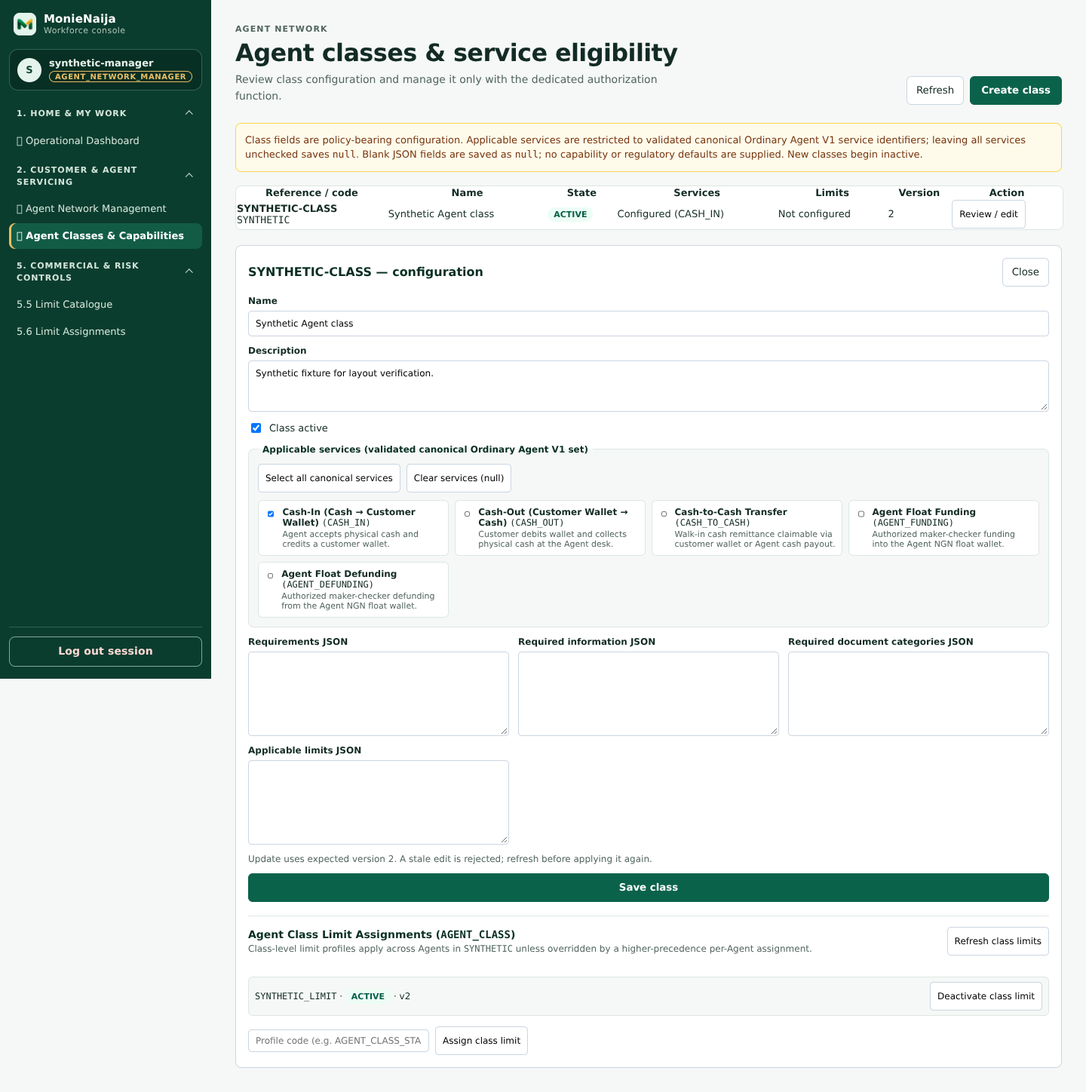
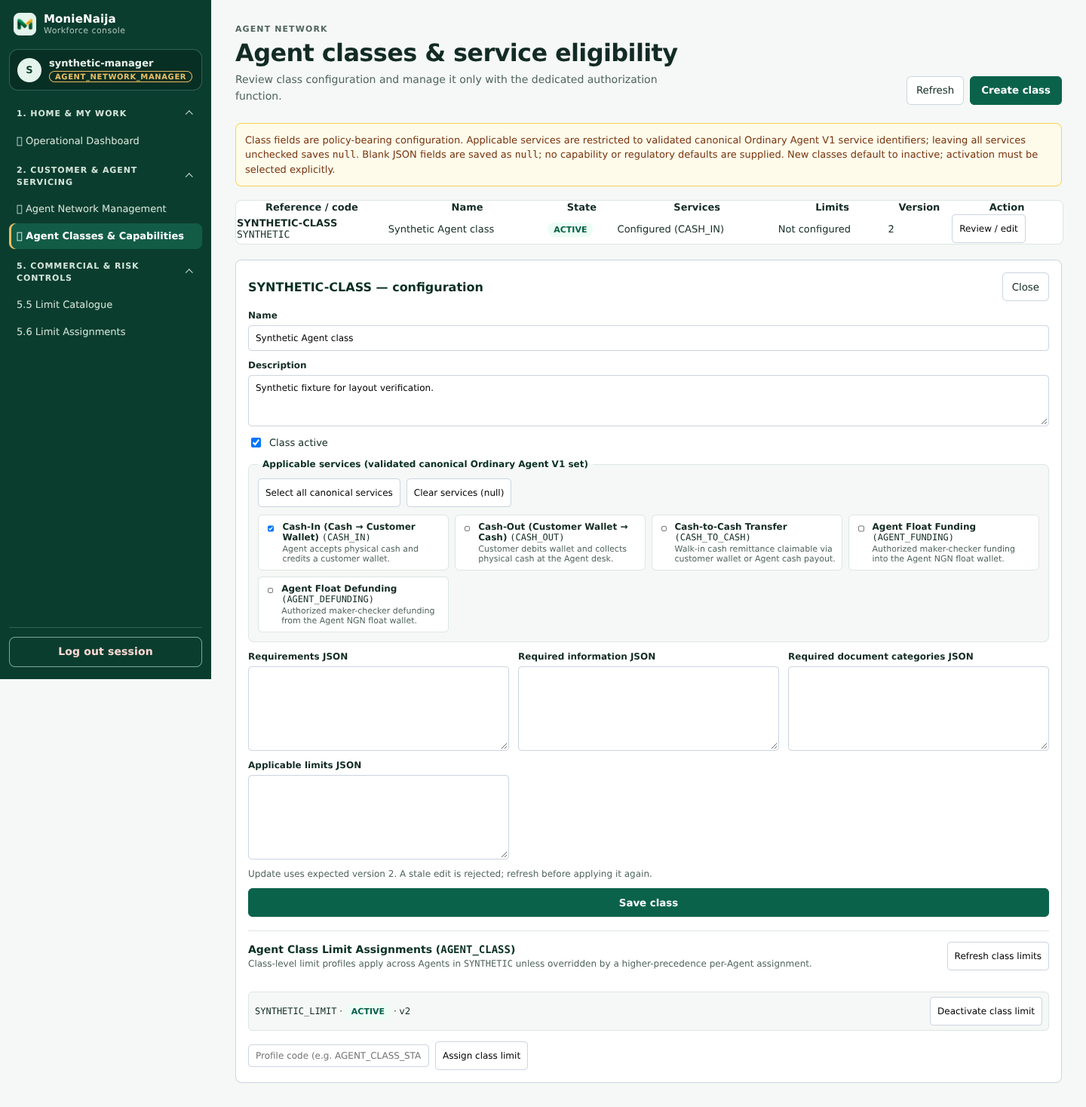
Harden agent class limit workflows

diff --git a/apps/admin-web/src/screens/authenticated/AgentClassesScreen.tsx b/apps/admin-web/src/screens/authenticated/AgentClassesScreen.tsx
@@ -141,7 +141,7 @@ export const AgentClassesScreen: React.FC = () => {
   const canViewLimits = hasFunction('limit.view');
   const canModifyLimits = hasFunction('limit.modify');
 
-  const key = `${principal?.principalId ?? ''}:${canView}:${canManage}:${canViewLimits}:${canModifyLimits}`;
+  const key = JSON.stringify([principal?.principalId, principal?.sessionId, principal?.type, principal?.roles, principal?.scopes, principal?.assuranceLevel, principal?.customerAccess, principal?.readOnlyPrincipal]);
   return <AgentClassesWorkspace key={key} canView={canView} canManage={canManage} canViewLimits={canViewLimits} canModifyLimits={canModifyLimits} />;
 };
 
@@ -167,6 +167,7 @@ const AgentClassesWorkspace: React.FC<{canView: boolean; canManage: boolean; can
   const [classLimitsError, setClassLimitsError] = useState('');
   const [classLimitsMsg, setClassLimitsMsg] = useState('');
   const [classLimits, setClassLimits] = useState<ClassLimitAssignmentRecord[]>([]);
+  const [classLimitsPage, setClassLimitsPage] = useState<{ page: number; total: number; totalPages: number; hasNextPage: boolean } | null>(null);
   const [classLimitProfileCode, setClassLimitProfileCode] = useState('');
 
   const resetClassLimitsState = () => {
@@ -175,6 +176,7 @@ const AgentClassesWorkspace: React.FC<{canView: boolean; canManage: boolean; can
     setClassLimitsLoading(false);
     setClassLimitsLoaded(false);
     setClassLimits([]);
+    setClassLimitsPage(null);
     setClassLimitsError('');
     setClassLimitsMsg('');
     setClassLimitProfileCode('');
@@ -232,19 +234,27 @@ const AgentClassesWorkspace: React.FC<{canView: boolean; canManage: boolean; can
     });
   };
 
-  const loadClassLimitAssignments = async (agentClassId: string) => {
+  const loadClassLimitAssignments = async (agentClassId: string, page = 1) => {
     if (!canViewLimits || classLimitsLoading) return;
     const request = ++limitGeneration.current;
-    setClassLimitsLoading(true); setClassLimitsLoaded(false); setClassLimits([]);
+    setClassLimitsLoading(true); setClassLimitsLoaded(false); setClassLimits([]); setClassLimitsPage(null);
     setClassLimitsError('');
     try {
       const res: any = await ApiClient.get(
-        `/internal/limit-assignments/agent-class/${encodeURIComponent(agentClassId)}`,
+        `/internal/limit-assignments/agent-class/${encodeURIComponent(agentClassId)}?page=${page}&limit=20`,
       );
-      const rows = Array.isArray(res) ? res : res?.data ?? res?.items;
-      if (!Array.isArray(rows) || rows.some((row: any) => !row || typeof row.id !== 'string' || typeof row.limitProfileCode !== 'string' || typeof row.isActive !== 'boolean')) throw new Error('Invalid Agent class limit assignments response.');
+      if (!res || res.page !== page || !Number.isSafeInteger(res.limit) || res.limit < 1 ||
+          !Number.isSafeInteger(res.total) || res.total < 0 || !Number.isSafeInteger(res.totalPages) ||
+          res.totalPages !== Math.ceil(res.total / res.limit) || res.hasNextPage !== (page < res.totalPages) ||
+          !Array.isArray(res.data) || res.data.length > res.limit ||
+          res.data.some((row: any) => !row || typeof row.id !== 'string' || !row.id.trim() ||
+            typeof row.limitProfileCode !== 'string' || !row.limitProfileCode.trim() ||
+            row.subjectType !== 'AGENT_CLASS' || row.subjectId !== agentClassId || typeof row.isActive !== 'boolean')) {
+        throw new Error('Invalid Agent class limit assignments response.');
+      }
       if (request !== limitGeneration.current) return;
-      setClassLimits(rows);
+      setClassLimits(res.data);
+      setClassLimitsPage({ page, total: res.total, totalPages: res.totalPages, hasNextPage: res.hasNextPage });
       setClassLimitsLoaded(true);
     } catch (err: any) {
       if (request === limitGeneration.current) setClassLimitsError(err?.message || 'Failed to load Agent class limit assignments.');
@@ -253,9 +263,14 @@ const AgentClassesWorkspace: React.FC<{canView: boolean; canManage: boolean; can
     }
   };
 
+  const matchesLimitReceipt = (row: any, classId: string, code: string, active: boolean, id?: string, version?: number) =>
+    row && typeof row.id === 'string' && !!row.id.trim() && (!id || row.id === id) &&
+    row.subjectType === 'AGENT_CLASS' && row.subjectId === classId && row.limitProfileCode === code &&
+    row.isActive === active && Number.isSafeInteger(row.version) && row.version > (version ?? 0);
+
   const assignClassLimitProfile = async (event: React.FormEvent) => {
     event.preventDefault();
-    if (!selected || !canModifyLimits || classLimitsBusy) return;
+    if (!selected || !canModifyLimits || classLimitsBusy || saving || classLimitsLoading) return;
     const code = classLimitProfileCode.trim().toUpperCase();
     if (!/^[A-Z0-9_]{3,80}$/.test(code)) {
       setClassLimitsError(
@@ -268,12 +283,13 @@ const AgentClassesWorkspace: React.FC<{canView: boolean; canManage: boolean; can
     setClassLimitsError('');
     setClassLimitsMsg('');
     try {
-      await ApiClient.post('/internal/limit-assignments', {
+      const receipt = await ApiClient.post('/internal/limit-assignments', {
         subjectType: 'AGENT_CLASS',
         subjectId: selected.id,
         limitProfileCode: code,
       });
       if (request !== mutationGeneration.current) return;
+      if (!matchesLimitReceipt(receipt, selected.id, code, true)) throw new Error('Unconfirmed class limit assignment receipt.');
       setClassLimitProfileCode('');
       setClassLimitsMsg(
         canViewLimits
@@ -284,33 +300,34 @@ const AgentClassesWorkspace: React.FC<{canView: boolean; canManage: boolean; can
         await loadClassLimitAssignments(selected.id);
       }
     } catch (err: any) {
-      if (request === mutationGeneration.current) setClassLimitsError(err?.message || 'Failed to assign limit profile to Agent class.');
+      if (request === mutationGeneration.current) { setClassLimitsLoaded(false); setClassLimits([]); setClassLimitsPage(null); setClassLimitsError('The assignment outcome could not be confirmed. Review the class limits before retrying.'); }
     } finally {
       if (request === mutationGeneration.current) setClassLimitsBusy(false);
     }
   };
 
   const toggleClassLimitAssignment = async (assignment: ClassLimitAssignmentRecord) => {
-    if (!selected || !canModifyLimits || classLimitsBusy || !Number.isSafeInteger(assignment.version) || (assignment.version ?? 0) < 1) return;
+    if (!selected || !canModifyLimits || classLimitsBusy || saving || classLimitsLoading || !Number.isSafeInteger(assignment.version) || (assignment.version ?? 0) < 1) return;
     const request = ++mutationGeneration.current;
     setClassLimitsBusy(true);
     setClassLimitsError('');
     setClassLimitsMsg('');
     try {
-      await ApiClient.patch(`/internal/limit-assignments/${encodeURIComponent(assignment.id)}`, {
+      const receipt = await ApiClient.patch(`/internal/limit-assignments/${encodeURIComponent(assignment.id)}`, {
         subjectType: 'AGENT_CLASS',
         isActive: !assignment.isActive,
         version: assignment.version,
       });
       if (request !== mutationGeneration.current) return;
+      if (!matchesLimitReceipt(receipt, selected.id, assignment.limitProfileCode, !assignment.isActive, assignment.id, assignment.version)) throw new Error('Unconfirmed class limit update receipt.');
       setClassLimitsMsg(
         `Class limit ${assignment.limitProfileCode} ${assignment.isActive ? 'deactivated' : 'activated'}.`,
       );
       if (canViewLimits) {
-        await loadClassLimitAssignments(selected.id);
+        await loadClassLimitAssignments(selected.id, classLimitsPage?.page ?? 1);
       }
     } catch (err: any) {
-      if (request === mutationGeneration.current) setClassLimitsError(err?.message || 'Failed to update Agent class limit assignment.');
+      if (request === mutationGeneration.current) { setClassLimitsLoaded(false); setClassLimits([]); setClassLimitsPage(null); setClassLimitsError('The update outcome could not be confirmed. Reload class limits and inspect the assignment before retrying.'); }
     } finally {
       if (request === mutationGeneration.current) setClassLimitsBusy(false);
     }
@@ -320,7 +337,7 @@ const AgentClassesWorkspace: React.FC<{canView: boolean; canManage: boolean; can
 
   const save = async (event: React.FormEvent) => {
     event.preventDefault();
-    if (!canManage || saving || loading || !!listError || selectedStale) return;
+    if (!canManage || saving || classLimitsBusy || classLimitsLoading || loading || !!listError || selectedStale) return;
     setError('');
     setMessage('');
 
@@ -364,7 +381,7 @@ const AgentClassesWorkspace: React.FC<{canView: boolean; canManage: boolean; can
         if (form.description.trim()) body.description = form.description.trim();
         const created = await ApiClient.post<AgentClassRecord>('/internal/agents/classes', body);
         if (request !== mutationGeneration.current) return;
-        if (!created || typeof created.id !== 'string' || typeof created.reference !== 'string' || typeof created.name !== 'string' || typeof created.version !== 'number') throw new Error('Class creation response is incomplete.');
+        if (!created || typeof created.id !== 'string' || !created.id.trim() || typeof created.reference !== 'string' || !created.reference.trim() || typeof created.code !== 'string' || !created.code.trim() || created.name !== form.name.trim() || created.isActive !== form.isActive || !Number.isSafeInteger(created.version) || created.version < 1 || (form.reference.trim() && created.reference !== form.reference.trim()) || (form.code.trim() && created.code !== form.code.trim())) throw new Error('Class creation response is incomplete.');
         setMessage(
           `Agent class ${created.reference} created. New classes start inactive unless explicitly activated.`,
         );
@@ -384,7 +401,7 @@ const AgentClassesWorkspace: React.FC<{canView: boolean; canManage: boolean; can
           },
         );
         if (request !== mutationGeneration.current) return;
-        if (!updated || typeof updated.id !== 'string' || updated.id !== selected.id || typeof updated.reference !== 'string' || typeof updated.name !== 'string' || typeof updated.version !== 'number') throw new Error('Class update response is incomplete.');
+        if (!updated || updated.id !== selected.id || updated.reference !== selected.reference || updated.code !== selected.code || updated.name !== form.name.trim() || updated.isActive !== form.isActive || !Number.isSafeInteger(updated.version) || updated.version <= selected.version) throw new Error('Class update response is incomplete.');
         setMessage(`Agent class ${updated.reference} saved at version ${updated.version}.`);
         setSelected(updated);
         setForm(toForm(updated));
@@ -421,7 +438,7 @@ const AgentClassesWorkspace: React.FC<{canView: boolean; canManage: boolean; can
       } />
 
       <div style={styles.notice} role="note">
-        Class fields are policy-bearing configuration. Applicable services are restricted to validated canonical Ordinary Agent V1 service identifiers; leaving all services unchecked saves <code>null</code>. Blank JSON fields are saved as <code>null</code>; no capability or regulatory defaults are supplied. New classes begin inactive.
+        Class fields are policy-bearing configuration. Applicable services are restricted to validated canonical Ordinary Agent V1 service identifiers; leaving all services unchecked saves <code>null</code>. Blank JSON fields are saved as <code>null</code>; no capability or regulatory defaults are supplied. New classes default to inactive; activation must be selected explicitly.
       </div>
       {!canManage && (
         <div
@@ -678,8 +695,8 @@ const AgentClassesWorkspace: React.FC<{canView: boolean; canManage: boolean; can
                   before applying it again.
                 </p>
               )}
-              <button type="submit" style={styles.primaryButton} disabled={saving || selectedStale}>
-                {saving ? 'Saving…' : creating ? 'Create inactive class' : 'Save class'}
+              <button type="submit" style={styles.primaryButton} disabled={saving || classLimitsBusy || classLimitsLoading || selectedStale}>
+                {saving ? 'Saving…' : creating ? (form.isActive ? 'Create active class' : 'Create inactive class') : 'Save class'}
               </button>
             </form>
           ) : (
@@ -726,8 +743,8 @@ const AgentClassesWorkspace: React.FC<{canView: boolean; canManage: boolean; can
                   <button
                     type="button"
                     style={styles.smallButton}
-                    disabled={classLimitsLoading}
-                    onClick={() => void loadClassLimitAssignments(selected.id)}
+                    disabled={classLimitsLoading || classLimitsBusy || saving}
+                    onClick={() => void loadClassLimitAssignments(selected.id, classLimitsPage?.page ?? 1)}
                   >
                     {classLimitsLoading
                       ? 'Loading…'
@@ -768,8 +785,9 @@ const AgentClassesWorkspace: React.FC<{canView: boolean; canManage: boolean; can
                 <div style={{ marginTop: 8 }}>
                   {classLimits.length === 0 ? (
                     <div style={styles.versionNote}>
-                      No <code>AGENT_CLASS</code> limit assignments configured for{' '}
-                      <code>{selected.reference}</code>.
+                      {classLimitsPage?.total === 0
+                        ? <>No <code>AGENT_CLASS</code> limit assignments configured for <code>{selected.reference}</code>.</>
+                        : 'No assignments on this page. Return to an earlier page to review current results.'}
                     </div>
                   ) : (
                     <ul style={styles.limitList}>
@@ -786,7 +804,7 @@ const AgentClassesWorkspace: React.FC<{canView: boolean; canManage: boolean; can
                             <button
                               type="button"
                               style={styles.smallButton}
-                              disabled={classLimitsBusy || !Number.isSafeInteger(assignment.version) || (assignment.version ?? 0) < 1}
+                              disabled={classLimitsBusy || classLimitsLoading || saving || !Number.isSafeInteger(assignment.version) || (assignment.version ?? 0) < 1}
                               title={!Number.isSafeInteger(assignment.version) || (assignment.version ?? 0) < 1 ? 'Version unavailable; refresh before changing this assignment.' : undefined}
                               onClick={() => void toggleClassLimitAssignment(assignment)}
                             >
@@ -798,6 +816,13 @@ const AgentClassesWorkspace: React.FC<{canView: boolean; canManage: boolean; can
                         </li>
                       ))}
                     </ul>
+                  )}
+                  {classLimitsPage && (classLimitsPage.totalPages > 1 || classLimitsPage.page > 1) && (
+                    <nav aria-label="Class limit assignment pages" style={styles.inlineLimitForm}>
+                      <button type="button" style={styles.smallButton} disabled={classLimitsPage.page <= 1 || classLimitsBusy || saving} onClick={() => void loadClassLimitAssignments(selected.id, classLimitsPage.page - 1)}>Previous</button>
+                      <span>Page {classLimitsPage.page} of {Math.max(classLimitsPage.totalPages, 1)} · {classLimitsPage.total} assignments</span>
+                      <button type="button" style={styles.smallButton} disabled={!classLimitsPage.hasNextPage || classLimitsBusy || saving} onClick={() => void loadClassLimitAssignments(selected.id, classLimitsPage.page + 1)}>Next</button>
+                    </nav>
                   )}
                 </div>
               )}
@@ -814,12 +839,12 @@ const AgentClassesWorkspace: React.FC<{canView: boolean; canManage: boolean; can
                     value={classLimitProfileCode}
                     onChange={(event) => setClassLimitProfileCode(event.target.value)}
                     style={styles.inlineInput}
-                    disabled={classLimitsBusy}
+                    disabled={classLimitsBusy || classLimitsLoading || saving}
                   />
                   <button
                     type="submit"
                     style={styles.smallButton}
-                    disabled={classLimitsBusy}
+                    disabled={classLimitsBusy || classLimitsLoading || saving}
                   >
                     Assign class limit
                   </button>

diff --git a/apps/admin-web/__tests__/m2-agent-classes.test.tsx b/apps/admin-web/__tests__/m2-agent-classes.test.tsx
@@ -5,6 +5,8 @@ import {ApiClient} from '../src/services/api-client';
 import {useAuthStore} from '../src/store/auth-store';
 jest.mock('../src/services/api-client',()=>({ApiClient:{get:jest.fn(),post:jest.fn(),patch:jest.fn()}}));
 const cls=(id:string)=>({id,reference:`REF-${id}`,code:`CODE-${id}`,name:`Class ${id}`,description:null,isActive:true,requirements:null,requiredInformation:null,requiredDocumentCategories:null,applicableServices:null,applicableLimits:null,version:2,createdAt:'2026-01-01',updatedAt:'2026-01-01'});
+const page=(data:any[], page=1, total=data.length, limit=20)=>({data,page,total,limit,totalPages:Math.ceil(total/limit),hasNextPage:page<Math.ceil(total/limit)});
+const limit=(id:string,subjectId='a',version:any=1,isActive=true)=>({id,subjectType:'AGENT_CLASS',subjectId,limitProfileCode:'SYNTHETIC_PROFILE',isActive,version});
 function deferred(){let resolve!:(v:any)=>void;const promise=new Promise<any>(r=>resolve=r);return {promise,resolve};}
 beforeEach(()=>{jest.resetAllMocks();useAuthStore.setState({principal:{type:'OPERATOR',principalId:'synthetic',sessionId:'synthetic',audience:'workforce-admin',roles:['AGENT_NETWORK_MANAGER'],scopes:['agent.view','agent.manage_classes','limit.view','limit.modify'],customerAccess:'NONE',assuranceLevel:'MFA'}})});
 test('failed catalogue refresh is unavailable, not empty, and retains the draft for retry',async()=>{
@@ -14,12 +16,12 @@ test('failed catalogue refresh is unavailable, not empty, and retains the draft 
  fireEvent.click(screen.getByRole('button',{name:'Refresh'}));expect(await screen.findByLabelText('Class name')).toHaveProperty('value','Draft class');
 });
 test('late limit results never appear under the newly selected class',async()=>{
- const old=deferred();(ApiClient.get as jest.Mock).mockImplementation((url:string)=>url==='/internal/agents/classes'?Promise.resolve([cls('a'),cls('b')]):url.endsWith('/a')?old.promise:Promise.resolve([]));
+ const old=deferred();(ApiClient.get as jest.Mock).mockImplementation((url:string)=>url==='/internal/agents/classes'?Promise.resolve([cls('a'),cls('b')]):url.includes('/agent-class/a?')?old.promise:Promise.resolve(page([])));
  render(<AgentClassesScreen/>);await screen.findByText('REF-a');fireEvent.click(screen.getAllByRole('button',{name:'Review / edit'})[0]);fireEvent.click(screen.getByRole('button',{name:'Load class limit assignments'}));fireEvent.click(screen.getAllByRole('button',{name:'Review / edit'})[1]);
- await act(async()=>{old.resolve([{id:'old-limit',limitProfileCode:'OLD_PROFILE',isActive:true,version:1}]);await old.promise;});expect(screen.queryByText('OLD_PROFILE')).toBeNull();expect(screen.getByRole('button',{name:'Load class limit assignments'})).toBeTruthy();
+ await act(async()=>{old.resolve(page([{...limit('old-limit'),limitProfileCode:'OLD_PROFILE'}]));await old.promise;});expect(screen.queryByText('OLD_PROFILE')).toBeNull();expect(screen.getByRole('button',{name:'Load class limit assignments'})).toBeTruthy();
 });
 test('missing optimistic limit version is not invented for an action',async()=>{
- (ApiClient.get as jest.Mock).mockImplementation((url:string)=>url==='/internal/agents/classes'?Promise.resolve([cls('a')]):Promise.resolve([{id:'limit',limitProfileCode:'SYNTHETIC_PROFILE',isActive:true}]));
+ (ApiClient.get as jest.Mock).mockImplementation((url:string)=>url==='/internal/agents/classes'?Promise.resolve([cls('a')]):Promise.resolve(page([{...limit('limit'),version:undefined}])));
  render(<AgentClassesScreen/>);fireEvent.click(await screen.findByRole('button',{name:'Review / edit'}));fireEvent.click(screen.getByRole('button',{name:'Load class limit assignments'}));expect(await screen.findByText('SYNTHETIC_PROFILE')).toBeTruthy();
  expect(within(screen.getByLabelText('Agent class limit assignments')).getByText(/version unavailable/)).toBeTruthy();expect((screen.getByRole('button',{name:'Deactivate class limit'}) as HTMLButtonElement).disabled).toBe(true);expect(ApiClient.patch).not.toHaveBeenCalled();
 });
@@ -27,4 +29,54 @@ test('a changed catalogue version preserves the draft but blocks saving it as cu
  (ApiClient.get as jest.Mock).mockResolvedValueOnce([cls('a')]).mockResolvedValueOnce([{...cls('a'),version:3}]);
  render(<AgentClassesScreen/>);fireEvent.click(await screen.findByRole('button',{name:'Review / edit'}));fireEvent.change(screen.getByLabelText('Class name'),{target:{value:'Draft class'}});fireEvent.click(screen.getByRole('button',{name:'Refresh'}));
  expect(await screen.findByText(/catalogue has changed/)).toBeTruthy();expect(screen.getByLabelText('Class name')).toHaveProperty('value','Draft class');expect((screen.getByRole('button',{name:'Save class'}) as HTMLButtonElement).disabled).toBe(true);expect(ApiClient.patch).not.toHaveBeenCalled();
+});
+
+test('class limits paginate using backend metadata and never display another class assignment',async()=>{
+ (ApiClient.get as jest.Mock).mockImplementation((url:string)=>url==='/internal/agents/classes'?Promise.resolve([cls('a')]):Promise.resolve(url.includes('page=2')?page([{...limit('second'),limitProfileCode:'SECOND_PROFILE'}],2,21):page([limit('first')],1,21)));
+ render(<AgentClassesScreen/>);fireEvent.click(await screen.findByRole('button',{name:'Review / edit'}));fireEvent.click(screen.getByRole('button',{name:'Load class limit assignments'}));
+ expect(await screen.findByText('Page 1 of 2 · 21 assignments')).toBeTruthy();fireEvent.click(screen.getByRole('button',{name:'Next'}));expect(await screen.findByText('SECOND_PROFILE')).toBeTruthy();expect(screen.queryByText('SYNTHETIC_PROFILE')).toBeNull();
+ expect(ApiClient.get).toHaveBeenCalledWith('/internal/limit-assignments/agent-class/a?page=2&limit=20');fireEvent.click(screen.getByRole('button',{name:'Previous'}));expect(await screen.findByText('SYNTHETIC_PROFILE')).toBeTruthy();
+});
+test('rejects class limit pages containing another class and does not offer row actions',async()=>{
+ (ApiClient.get as jest.Mock).mockImplementation((url:string)=>url==='/internal/agents/classes'?Promise.resolve([cls('a')]):Promise.resolve(page([limit('foreign','b')])));
+ render(<AgentClassesScreen/>);fireEvent.click(await screen.findByRole('button',{name:'Review / edit'}));fireEvent.click(screen.getByRole('button',{name:'Load class limit assignments'}));expect(await screen.findByText(/Invalid Agent class limit assignments response/)).toBeTruthy();expect(screen.queryByRole('button',{name:'Deactivate class limit'})).toBeNull();
+});
+test('rejects an unrelated class limit create receipt and retains the profile code',async()=>{
+ (ApiClient.get as jest.Mock).mockResolvedValue([cls('a')]);(ApiClient.post as jest.Mock).mockResolvedValue({...limit('new','b'),limitProfileCode:'NEW_PROFILE'});
+ render(<AgentClassesScreen/>);fireEvent.click(await screen.findByRole('button',{name:'Review / edit'}));fireEvent.change(screen.getByLabelText('Class limit profile code'),{target:{value:'new_profile'}});fireEvent.click(screen.getByRole('button',{name:'Assign class limit'}));
+ expect(await screen.findByText(/assignment outcome could not be confirmed/)).toBeTruthy();expect(screen.queryByText(/Assigned limit profile NEW_PROFILE/)).toBeNull();expect(screen.getByLabelText('Class limit profile code')).toHaveProperty('value','new_profile');
+});
+test('confirms a matching class limit create receipt even when refresh fails',async()=>{
+ (ApiClient.get as jest.Mock).mockImplementation((url:string)=>url==='/internal/agents/classes'?Promise.resolve([cls('a')]):Promise.reject(new Error('Limits unavailable')));(ApiClient.post as jest.Mock).mockResolvedValue({...limit('new'),limitProfileCode:'NEW_PROFILE'});
+ render(<AgentClassesScreen/>);fireEvent.click(await screen.findByRole('button',{name:'Review / edit'}));fireEvent.change(screen.getByLabelText('Class limit profile code'),{target:{value:'NEW_PROFILE'}});fireEvent.click(screen.getByRole('button',{name:'Assign class limit'}));
+ expect(await screen.findByText(/Assigned limit profile NEW_PROFILE/)).toBeTruthy();expect(await screen.findByText('Limits unavailable')).toBeTruthy();expect(screen.getByLabelText('Class limit profile code')).toHaveProperty('value','');
+});
+test('rejects an unrelated toggle receipt, hides stale row and requires a reload',async()=>{
+ (ApiClient.get as jest.Mock).mockImplementation((url:string)=>url==='/internal/agents/classes'?Promise.resolve([cls('a')]):Promise.resolve(page([limit('first')])));(ApiClient.patch as jest.Mock).mockResolvedValue(limit('other','a',2,false));
+ render(<AgentClassesScreen/>);fireEvent.click(await screen.findByRole('button',{name:'Review / edit'}));fireEvent.click(screen.getByRole('button',{name:'Load class limit assignments'}));fireEvent.click(await screen.findByRole('button',{name:'Deactivate class limit'}));
+ expect(await screen.findByText(/update outcome could not be confirmed/)).toBeTruthy();expect(screen.queryByText(/SYNTHETIC_PROFILE deactivated/)).toBeNull();expect(screen.queryByRole('button',{name:'Deactivate class limit'})).toBeNull();
+});
+test('confirms a matching toggle receipt and reloads its selected page',async()=>{
+ (ApiClient.get as jest.Mock).mockImplementation((url:string)=>url==='/internal/agents/classes'?Promise.resolve([cls('a')]):Promise.resolve(url.includes('page=2')?page([limit('second')],2,21):page([limit('first')],1,21)));(ApiClient.patch as jest.Mock).mockResolvedValue(limit('second','a',2,false));
+ render(<AgentClassesScreen/>);fireEvent.click(await screen.findByRole('button',{name:'Review / edit'}));fireEvent.click(screen.getByRole('button',{name:'Load class limit assignments'}));fireEvent.click(await screen.findByRole('button',{name:'Next'}));fireEvent.click(await screen.findByRole('button',{name:'Deactivate class limit'}));
+ expect(await screen.findByText(/Class limit SYNTHETIC_PROFILE deactivated/)).toBeTruthy();expect((ApiClient.get as jest.Mock).mock.calls.filter(([url])=>url.includes('page=2'))).toHaveLength(2);
+});
+test('blocks concurrent class save while a class limit write is pending',async()=>{
+ const pending=deferred();(ApiClient.get as jest.Mock).mockResolvedValue([cls('a')]);(ApiClient.post as jest.Mock).mockReturnValue(pending.promise);
+ render(<AgentClassesScreen/>);fireEvent.click(await screen.findByRole('button',{name:'Review / edit'}));fireEvent.change(screen.getByLabelText('Class limit profile code'),{target:{value:'NEW_PROFILE'}});fireEvent.click(screen.getByRole('button',{name:'Assign class limit'}));expect((screen.getByRole('button',{name:'Save class'}) as HTMLButtonElement).disabled).toBe(true);expect(ApiClient.patch).not.toHaveBeenCalled();
+ await act(async()=>{pending.resolve({...limit('new'),limitProfileCode:'NEW_PROFILE'});await pending.promise;});
+});
+test('a session change clears class drafts and ignores a late class limit write',async()=>{
+ const pending=deferred();(ApiClient.get as jest.Mock).mockImplementation((url:string)=>url==='/internal/agents/classes'?Promise.resolve([cls('a')]):Promise.resolve(page([])));(ApiClient.post as jest.Mock).mockReturnValue(pending.promise);
+ render(<AgentClassesScreen/>);fireEvent.click(await screen.findByRole('button',{name:'Review / edit'}));fireEvent.change(screen.getByLabelText('Class limit profile code'),{target:{value:'NEW_PROFILE'}});fireEvent.click(screen.getByRole('button',{name:'Assign class limit'}));
+ act(()=>useAuthStore.setState(state=>({principal:state.principal?{...state.principal,sessionId:'another-session'}:null})));await act(async()=>{pending.resolve({...limit('new'),limitProfileCode:'NEW_PROFILE'});await pending.promise;});
+ expect(screen.queryByText(/Assigned limit profile NEW_PROFILE/)).toBeNull();expect(screen.queryByLabelText('Class limit profile code')).toBeNull();
+});
+test('read-only governance cannot create or modify classes and class limits',async()=>{
+ act(()=>useAuthStore.setState(state=>({principal:state.principal?{...state.principal,scopes:['agent.view','limit.view']}:null})));(ApiClient.get as jest.Mock).mockImplementation((url:string)=>url==='/internal/agents/classes'?Promise.resolve([cls('a')]):Promise.resolve(page([limit('first')])));
+ render(<AgentClassesScreen/>);fireEvent.click(await screen.findByRole('button',{name:'Review'}));fireEvent.click(screen.getByRole('button',{name:'Load class limit assignments'}));expect(await screen.findByText('SYNTHETIC_PROFILE')).toBeTruthy();expect(screen.queryByRole('button',{name:'Create class'})).toBeNull();expect(screen.queryByRole('button',{name:'Deactivate class limit'})).toBeNull();expect(screen.queryByRole('button',{name:'Assign class limit'})).toBeNull();expect(ApiClient.post).not.toHaveBeenCalled();expect(ApiClient.patch).not.toHaveBeenCalled();
+});
+test('an unrelated class update receipt cannot confirm a save',async()=>{
+ (ApiClient.get as jest.Mock).mockResolvedValue([cls('a')]);(ApiClient.patch as jest.Mock).mockResolvedValue({...cls('b'),name:'Draft class',version:3});
+ render(<AgentClassesScreen/>);fireEvent.click(await screen.findByRole('button',{name:'Review / edit'}));fireEvent.change(screen.getByLabelText('Class name'),{target:{value:'Draft class'}});fireEvent.click(screen.getByRole('button',{name:'Save class'}));expect(await screen.findByText(/Class update response is incomplete/)).toBeTruthy();expect(screen.queryByText(/saved at version/)).toBeNull();expect(screen.getByLabelText('Class name')).toHaveProperty('value','Draft class');
 });

diff --git a/apps/admin-web/__tests__/ordinary-agent-v1-mission15b.test.tsx b/apps/admin-web/__tests__/ordinary-agent-v1-mission15b.test.tsx
@@ -435,8 +435,8 @@ describe('Mission 15B — Ordinary Agent V1 Admin Web Completion', () => {
 
     (ApiClient.get as jest.Mock).mockImplementation((path: string) => {
       if (path === '/internal/agents/classes') return Promise.resolve([legacyClass]);
-      if (path === `/internal/limit-assignments/agent-class/${CLASS_ID}`) {
-        return Promise.resolve([
+      if (path === `/internal/limit-assignments/agent-class/${CLASS_ID}?page=1&limit=20`) {
+        return Promise.resolve({data:[
           {
             id: 'cls-lim-1',
             subjectType: 'AGENT_CLASS',
@@ -445,7 +445,7 @@ describe('Mission 15B — Ordinary Agent V1 Admin Web Completion', () => {
             isActive: true,
             version: 2,
           },
-        ]);
+        ], page:1, limit:20, total:1, totalPages:1, hasNextPage:false});
       }
       return Promise.resolve([]);
     });
@@ -454,7 +454,7 @@ describe('Mission 15B — Ordinary Agent V1 Admin Web Completion', () => {
       applicableServices: ['CASH_IN', 'CASH_TO_CASH'],
       version: 5,
     });
-    (ApiClient.post as jest.Mock).mockResolvedValue({});
+    (ApiClient.post as jest.Mock).mockResolvedValue({id:'new-limit',subjectType:'AGENT_CLASS',subjectId:CLASS_ID,limitProfileCode:'AGENT_CLASS_TIER2',isActive:true,version:1});
 
     const classesView = render(<AgentClassesScreen />);
     fireEvent.click(await classesView.findByRole('button', { name: 'Review / edit' }));
@@ -485,6 +485,7 @@ describe('Mission 15B — Ordinary Agent V1 Admin Web Completion', () => {
     );
 
     // Load and manage AGENT_CLASS limit assignments directly inside AgentClassesScreen
+    await waitFor(() => expect((classesView.getByRole('button', { name: 'Load class limit assignments' }) as HTMLButtonElement).disabled).toBe(false));
     fireEvent.click(classesView.getByRole('button', { name: 'Load class limit assignments' }));
     expect(await classesView.findByText('AGENT_CLASS_STD')).toBeTruthy();
 

diff --git a/docs/admin-m2/implementation-checklist.md b/docs/admin-m2/implementation-checklist.md
@@ -21,7 +21,7 @@ Baseline: `3b0ca4488fb40ac5a64ed4ff6264dc64be2e954e` (fetched integration branch
 | [A02](../design-discovery-20261029/01-inventory.md#A02) | dashboardSettings | Partial: settings form labels, disclosure, states and responsive table; interaction and visual review pending. |
 | [A03](../design-discovery-20261029/01-inventory.md#A03) | customers | Partial: Customer 360, registration, personal and proof workspaces have synthetic loaded/keyboard coverage at eight widths; remaining actions, authorization and visual acceptance pending. |
 | [A04](../design-discovery-20261029/01-inventory.md#A04) | agents | Partial: Agent list, details, class, credential, PIN, history, funding inbox and Network receive safe-state/responsive treatment; synthetic loaded review at eight widths; maker/checker action review pending. |
-| [A05](../design-discovery-20261029/01-inventory.md#A05) | agentClasses | Partial: class catalogue and limit read/context guards, stale-draft version warning, no fabricated limit version; populated editor and assignments checked at eight widths; action and role review pending. |
+| [A05](../design-discovery-20261029/01-inventory.md#A05) | agentClasses | Partial: session-scoped catalogue drafts and limit reads, stale-version warning, paginated class limits and identity/state/version-checked class and assignment receipts. Synthetic keyboard pagination and mismatched/matching toggle receipts at eight widths; restricted read-only unit regression. Broader action and live role acceptance remain pending. |
 | [A06](../design-discovery-20261029/01-inventory.md#A06) | cashToCashOps | Partial: responsive receipt and journal inspection, principal/request guards, validated list and journal data, unconfirmed expiry state, non-NGN units and unknown balance state; synthetic loaded receipt/journal at eight widths; restricted and functional acceptance pending. |
 | [A07](../design-discovery-20261029/01-inventory.md#A07) | support | Partial: list/detail redesign, labeled filters, request ordering and distinct failures; synthetic populated detail tested at eight widths. |
 | [A08](../design-discovery-20261029/01-inventory.md#A08) | transfers | Partial: responsive transaction/fee workspace, exact kobo conversion and validated trace/simulation results, request/principal guards; populated synthetic trace and isolated fee simulation at eight widths; real integration and authorization review pending. |
@@ -72,11 +72,11 @@ An earlier UI note incorrectly stated that the case endpoint had no catalogue ch
 | Financial truth and data freshness | Partial: reconciliation does not equate zero binding discrepancies with balanced books; stale report flagged, C2C incomplete journals unknown, exact amounts in selected surfaces. Remaining financial displays and action states require review. |
 | Error vs empty / stale | Partial: Audit, history, Support, Compliance, Fraud, Workforce, Ledger, Agent lists, C2C and Notification read failures improved. Other surfaces and refresh races require review. |
 | Authorization, maker-checker, MFA and APIs | Existing tests pass; no intended policy, endpoint or financial action changes. Per-action/role acceptance remains. |
-| Responsive widths and zoom | [Navigation smoke](evidence/navigation-smoke.json): 224 synthetic mostly initial/503 cases at 320, 360, 390, 768, 769, 1024, 1280 and 1440 px, no document overflow. [Loaded smoke](evidence/loaded-smoke.json): 24 populated Support, Fees and Ledger cases at those widths, no document overflow. [Agent](evidence/agent-workspaces-smoke.json), [Customer](evidence/customer-workspaces-smoke.json), and [Notification workspaces](evidence/notification-workspaces-smoke.json) add 141 synthetic populated and keyboard checks at eight widths with no document overflow. [Recovery](evidence/recovery-smoke.json), [Workforce](evidence/workforce-smoke.json) and [generic approvals](evidence/approvals-smoke.json) add 48 synthetic checks at eight widths without document overflow. [Compliance](evidence/compliance-smoke.json) adds 24 and [Agent classes](evidence/agent-classes-smoke.json) adds 8 loaded synthetic checks, also without document overflow. [Transactions](evidence/transaction-workspaces-smoke.json) add 24, [Finance](evidence/finance-workspaces-smoke.json) 16, [Commercial](evidence/commercial-workspaces-smoke.json) 48 and [System/Audit](evidence/system-audit-smoke.json) 16 and [Cash-to-Cash](evidence/cash-to-cash-smoke.json) 8 and [funding checker](evidence/funding-checker-smoke.json) 8 and [Agent credentials](evidence/agent-credential-smoke.json) 8 and [profile receipts](evidence/customer-profile-receipt-smoke.json) 8 and [Proof of Address actions](evidence/proof-of-address-actions-smoke.json) 8 and [registration actions](evidence/customer-registration-actions-smoke.json) 8 synthetic checks across the same widths, without page-wide overflow. This is not comprehensive responsive acceptance; real 200%/400% zoom and all other populated/action states remain. Headless Chromium did not respond to Ctrl-plus browser zoom (viewport and device pixel ratio unchanged); viewport-width checks are not claimed as zoom acceptance. |
-| Keyboard, contrast and assistive technology | Commercial tab keyboard regression and browser arrow/Home checks at eight widths, plus browser keyboard checks for mobile drawer trapping/Escape, Customer 360 dialog trapping/restoration, customer tabs, registration validation/close, Proof of Address preview/withdrawal dialogs, notification tab navigation, synthetic funding checker approval/posting and Agent credential/session actions, profile receipt handling and Proof of Address upload/withdrawal at the applicable widths; a narrow visible-control label-mechanism smoke check passes for the populated Customer, Agent, Notification, Commercial, Finance, Transactions, System/Audit, Compliance, funding checker, Recovery, Workforce, Approvals, Agent Classes and Cash-to-Cash fixtures at eight widths. It checks for a native label, aria-label, aria-labelledby or title, not the correctness of the accessible name. Comprehensive manual keyboard, contrast and assistive technology review remains. |
+| Responsive widths and zoom | [Navigation smoke](evidence/navigation-smoke.json): 224 synthetic mostly initial/503 cases at 320, 360, 390, 768, 769, 1024, 1280 and 1440 px, no document overflow. [Loaded smoke](evidence/loaded-smoke.json): 24 populated Support, Fees and Ledger cases at those widths, no document overflow. [Agent](evidence/agent-workspaces-smoke.json), [Customer](evidence/customer-workspaces-smoke.json), and [Notification workspaces](evidence/notification-workspaces-smoke.json) add 141 synthetic populated and keyboard checks at eight widths with no document overflow. [Recovery](evidence/recovery-smoke.json), [Workforce](evidence/workforce-smoke.json) and [generic approvals](evidence/approvals-smoke.json) add 48 synthetic checks at eight widths without document overflow. [Compliance](evidence/compliance-smoke.json) adds 24 and [Agent classes](evidence/agent-classes-smoke.json) adds 8 loaded synthetic checks, also without document overflow. [Transactions](evidence/transaction-workspaces-smoke.json) add 24, [Finance](evidence/finance-workspaces-smoke.json) 16, [Commercial](evidence/commercial-workspaces-smoke.json) 48 and [System/Audit](evidence/system-audit-smoke.json) 16 and [Cash-to-Cash](evidence/cash-to-cash-smoke.json) 8 and [funding checker](evidence/funding-checker-smoke.json) 8 and [Agent credentials](evidence/agent-credential-smoke.json) 8 and [profile receipts](evidence/customer-profile-receipt-smoke.json) 8 and [Proof of Address actions](evidence/proof-of-address-actions-smoke.json) 8 and [registration actions](evidence/customer-registration-actions-smoke.json) 8 and [Agent class actions](evidence/agent-class-actions-smoke.json) 8 synthetic checks across the same widths, without page-wide overflow. This is not comprehensive responsive acceptance; real 200%/400% zoom and all other populated/action states remain. Headless Chromium did not respond to Ctrl-plus browser zoom (viewport and device pixel ratio unchanged); viewport-width checks are not claimed as zoom acceptance. |
+| Keyboard, contrast and assistive technology | Commercial tab keyboard regression and browser arrow/Home checks at eight widths, plus browser keyboard checks for mobile drawer trapping/Escape, Customer 360 dialog trapping/restoration, customer tabs, registration validation/close, Proof of Address preview/withdrawal dialogs, notification tab navigation, synthetic funding checker approval/posting and Agent credential/session actions, profile receipt handling, Proof of Address upload/withdrawal and Agent class limit pagination/toggle at the applicable widths; a narrow visible-control label-mechanism smoke check passes for the populated Customer, Agent, Notification, Commercial, Finance, Transactions, System/Audit, Compliance, funding checker, Recovery, Workforce, Approvals, Agent Classes and Cash-to-Cash fixtures at eight widths. It checks for a native label, aria-label, aria-labelledby or title, not the correctness of the accessible name. Comprehensive manual keyboard, contrast and assistive technology review remains. |
 | Visual design, screenshots and owner acceptance | [Synthetic screenshots and scripts](evidence/) include Login, Dashboard, Support, Agents, Notifications, Transfers, populated Fees and Ledger at selected widths. They are not visual acceptance. Obtain Product/Design, Accessibility, Security and Finance/Operations review as applicable; historical design approval remains unconfirmed. |
-| Automated checks | Latest full run: frontend typecheck, 56 Jest suites / 450 tests and production build passed; `git diff --check` passed. React test `act(...)` warnings, Vite CJS deprecation and >500 kB bundle warning remain. No Admin lint script provided. |
-| CI, PR and integration | [CI at 2e75139](https://github.com/shyne240/monienaija/actions/runs/42383230127) in progress at last observation: Admin Web, Customer Mobile and backend unit/lint/build passed; PostgreSQL integration still running. Recent runs were cancelled by branch concurrency; an [earlier CI at 194192f](https://github.com/shyne240/monienaija/actions/runs/42372014961) passed all jobs. No PR opened or merge: substantial implementation and acceptance remain outstanding. |
+| Automated checks | Latest full run: frontend typecheck, 56 Jest suites / 460 tests and production build passed; `git diff --check` passed. React test `act(...)` warnings, Vite CJS deprecation and >500 kB bundle warning remain. No Admin lint script provided. |
+| CI, PR and integration | [CI at d786212](https://github.com/shyne240/monienaija/actions/runs/42383749954) passed all four jobs, including real PostgreSQL integration. Subsequent work still requires its own CI observation. No PR opened or merge: substantial implementation and acceptance remain outstanding. |
 
 ## Continuation plan
 
